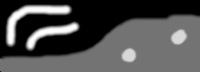
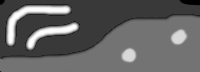
fixed elevation maps
Former-commit-id: 548f219dfe8530430524aeb5c686da53a5d1699e [formerly ab99a866a75235fd8bc06e349375a1463aa57094]
Former-commit-id: 4c46dd5a4f4b2d8ba84560f342eab5fa59f0ed46

diff --git a/modules/simulator/src/WorldElements/ElevationMap.cpp b/modules/simulator/src/WorldElements/ElevationMap.cpp
@@ -129,7 +129,7 @@ void ElevationMap::loadConfigFrom(const rapidxml::xml_node<char>* root)
 	// Important: the yMin/yMax in the next line are swapped to handle
 	// the "+y" different direction in image and map coordinates, it is not
 	// a bug:
-	gl_mesh_->setGridLimits(-0.5 * LX, 0.5 * LX, +0.5 * LY, -0.5 * LY);
+	gl_mesh_->setGridLimits(-0.5 * LX, 0.5 * LX, -0.5 * LY, +0.5 * LY);
 
 	gl_debugWheelsContactPoints_ = mrpt::opengl::CPointCloud::Create();
 	gl_debugWheelsContactPoints_->enableVariablePointSize(false);
